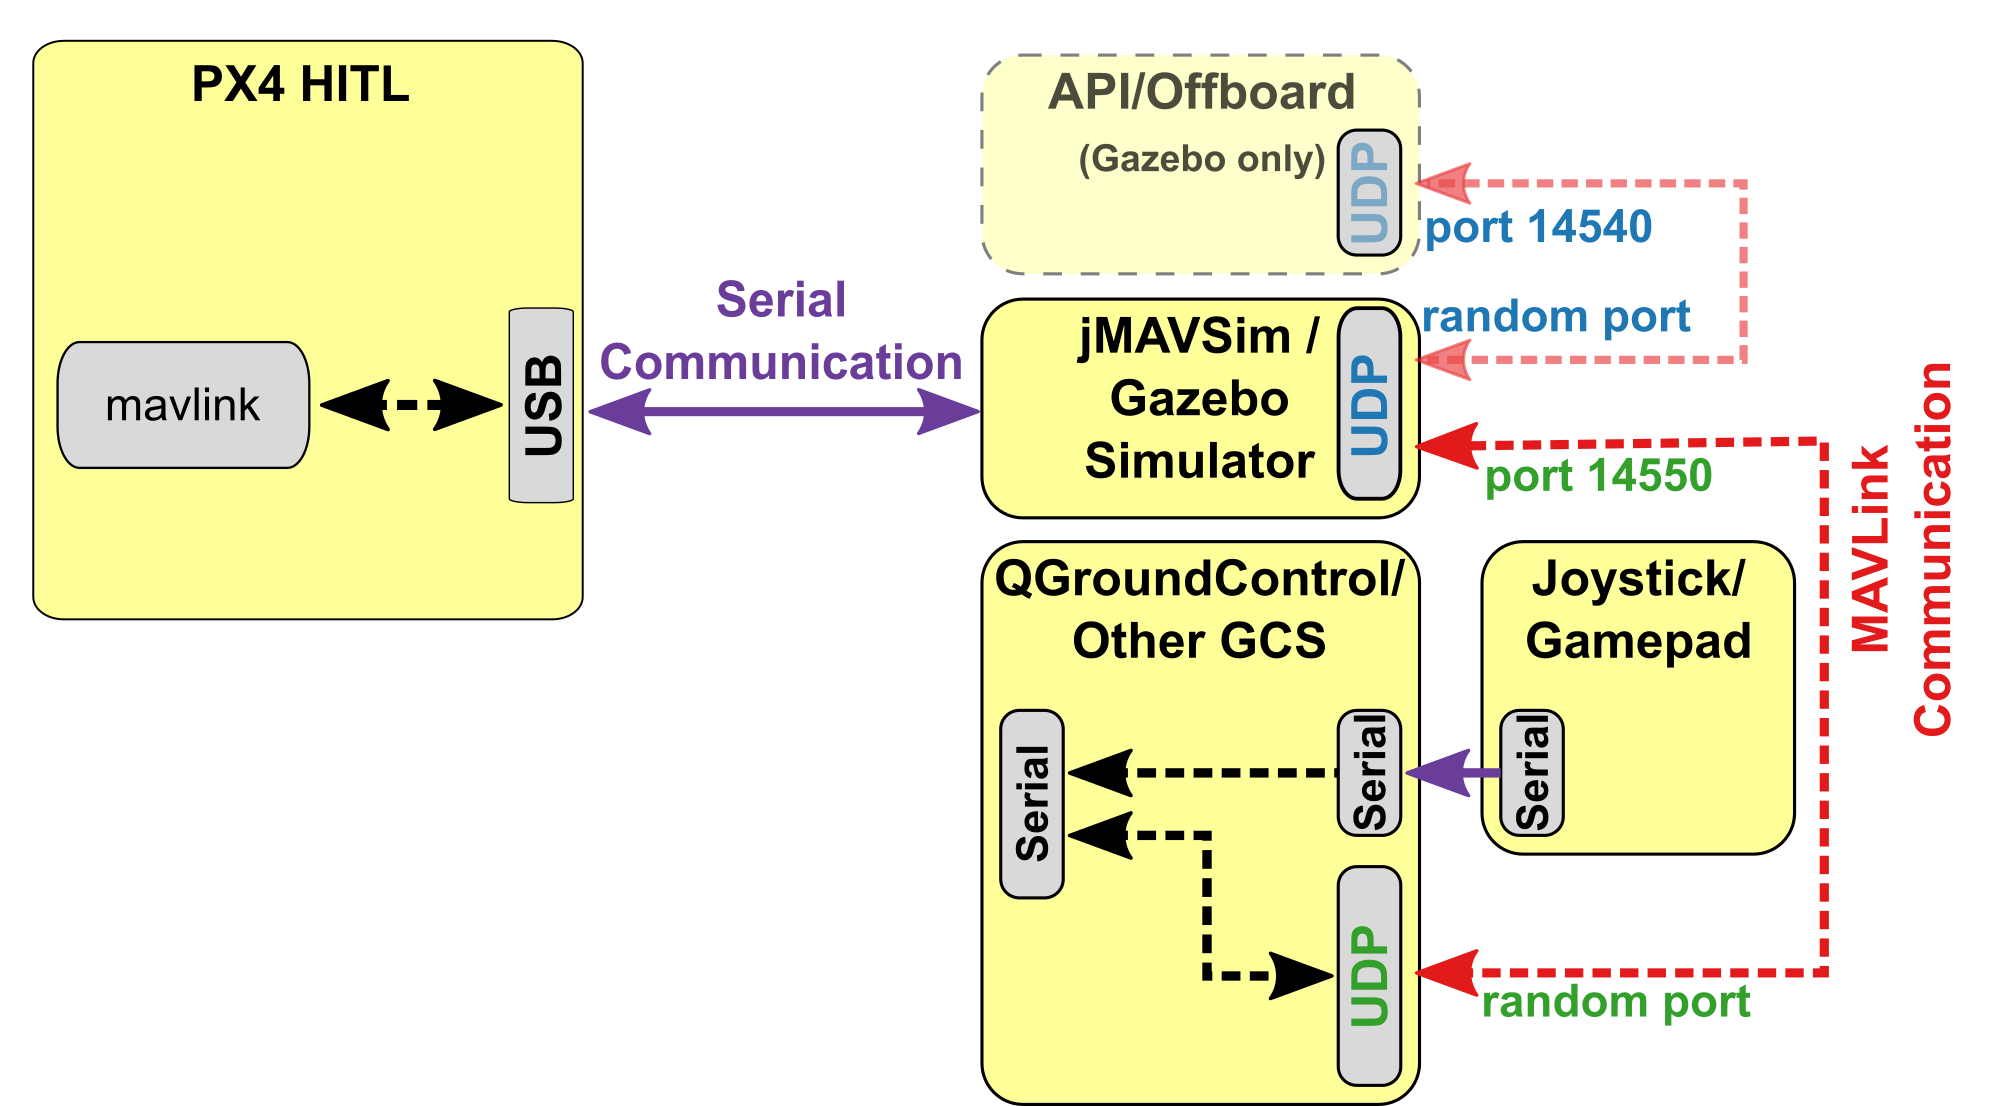
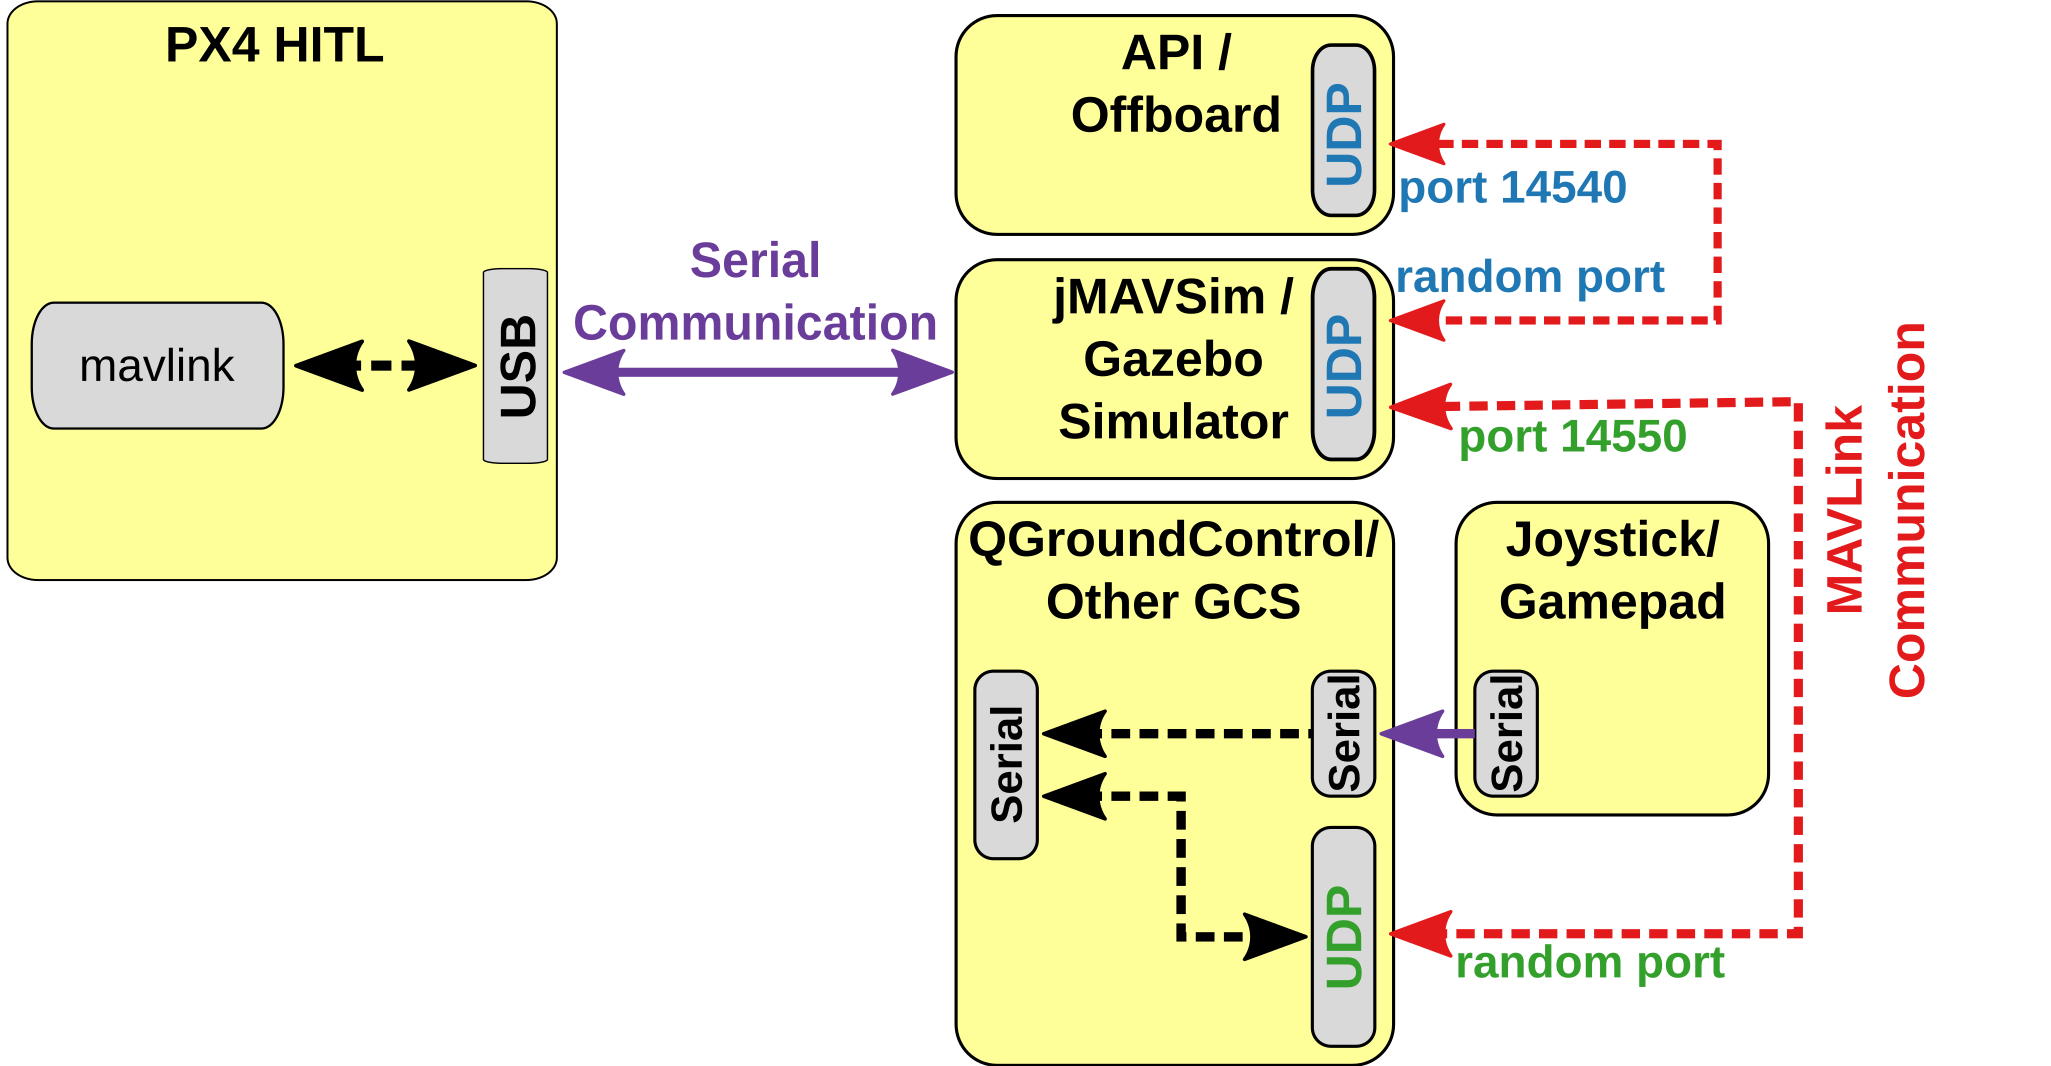
simulation: enable SDK port for HITL (#774)

Changed region(s): [[0.0, 0.0, 0.9975, 1.0], [0.8728, 0.2477, 0.904, 0.2786], [0.8728, 0.1857, 0.904, 0.2167]]

diff --git a/en/simulation/hitl.md b/en/simulation/hitl.md
@@ -35,15 +35,12 @@ The simulator acts as gateway to share MAVLink data between PX4 and *QGroundCont
 > **Note** The simulator can also be connected via UDP if the flight controller has networking support and uses a stable, low-latency connection (e.g. a wired Ethernet connection - WiFi is usually not sufficiently reliable).
   For example, this configuration has been tested with PX4 running on a Raspberry Pi connected via Ethernet to the computer (a startup configuration that includes the command for running jMAVSim can be found [here](https://github.com/PX4/Firmware/blob/master/posix-configs/rpi/px4_hil.config)).
 
-<span></span>
-> **Tip** Gazebo can additionally share MAVLink data with an offboard API!
-
 The diagram below shows the simulation environment:
 * A HITL configuration is selected (via *QGroundControl*) that doesn't start any real sensors.
 * *jMAVSim* or *Gazebo* are connected to the flight controller via USB.
 * The simulator is connected to *QGroundControl* via UDP and bridges its MAVLink messages to PX4.
+* *Gazebo* and *jMAVSim* can also connect to an offboard API and bridge MAVLink messages to PX4.
 * (Optional) A serial connection can be used to connect Joystick/Gamepad hardware via *QGroundControl*.
-* (Optional - Gazebo only) Gazebo can also connect to an offboard API and bridge MAVLink messages to PX4.
 
 ![HITL Setup - jMAVSim and Gazebo](../../assets/simulation/px4_hitl_overview_jmavsim_gazebo.png)
 
@@ -145,7 +142,7 @@ Follow the appropriate setup steps for your simulator in the following sections.
 1. Connect the flight controller to the computer and wait for it to boot.
 1. Run jMAVSim in HITL mode (replace the serial port name `/dev/ttyACM0` if necessary - e.g. on Mac OS this would be `/dev/tty.usbmodem1`):
    ```sh
-   ./Tools/jmavsim_run.sh -q -d /dev/ttyACM0 -b 921600 -r 250
+   ./Tools/jmavsim_run.sh -q -s -d /dev/ttyACM0 -b 921600 -r 250
    ```
 1. Start *QGroundControl*. It should autoconnect to PX4 and jMAVSim.
 
